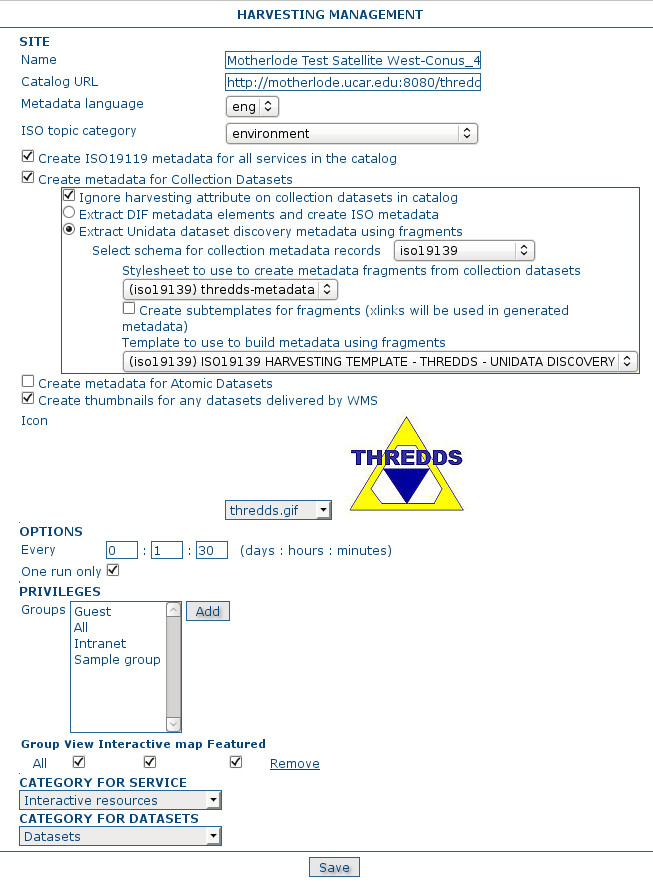
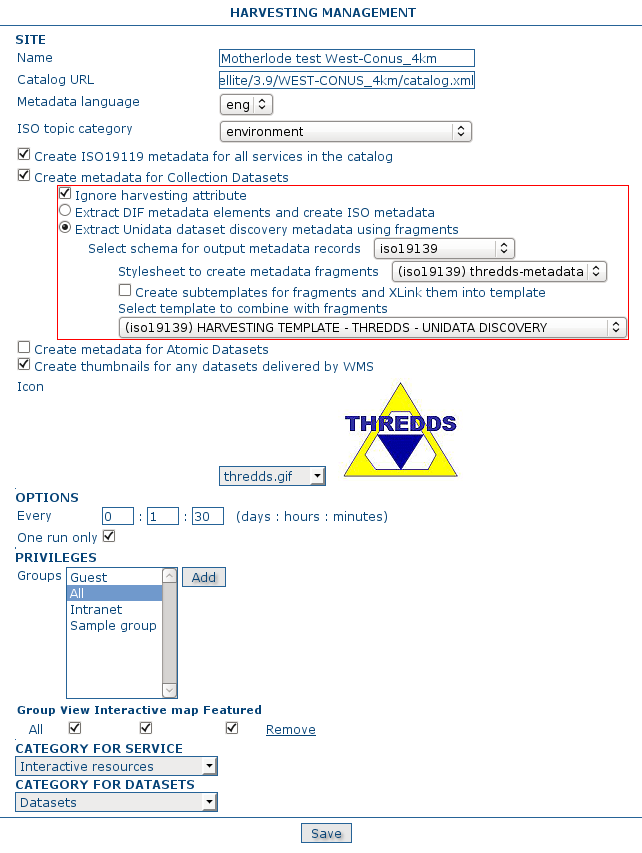
Final mods for changes in interface prompts plus small clarifications
git-svn-id: https://geonetwork.svn.sourceforge.net/svnroot/geonetwork/trunk@7278 ff403467-3f20-0410-99e5-ff581e626a08

diff --git a/docs/eng/users/source/admin/harvesting/index.rst b/docs/eng/users/source/admin/harvesting/index.rst
@@ -694,19 +694,21 @@ The available options are:
 
 	- *Name* - This is a short description of the node. It will be shown in the harvesting main page.
 	- *Catalog URL* - The remote URL of the THREDDS Catalog from which metadata will be harvested. This must be the xml version of the catalaog (i.e. ending with .xml).  The harvester will crawl through all datasets and services defined in this catalog creating metadata for them as specified by the options described further below.
-	- *Metadata language* - Use this option to specify the language of service metadata.
+	- *Metadata language* - Use this option to specify the language of the metadata to be harvested.
 	- *ISO topic category* - Use this option to specify the ISO topic category of service metadata.
-	- *Create service metadata* - Select this option to generate iso19119 metadata for services defined in the THREDDS catalog and for the catalog itself.
+	- *Create ISO19119 metadata for all services in catalog* - Select this option to generate iso19119 metadata for services defined in the THREDDS catalog (eg. OpenDAP, OGC WCS, ftp) and for the THREDDS catalog itself.
 	- *Create metadata for Collection datasets* -  Select this option to generate metadata for each collection dataset (THREDDS dataset containing other datasets).  Creation of metadata can be customised using options that are displayed when this option is selected as described further below.
 	- *Create metadata for Atomic datasets* - Select this option to generate metadata for each atomic dataset (THREDDS dataset not containing other datasets – for example cataloguing a netCDF dataset).  Creation of metadata can be customised using options that are displayed when this option is selected as described further below.
 
-		- *Ignore harvesting attribute* - Select this option to harvest metadata for selected datasets  regardless of the harvest attribute for the dataset in the THREDDS catalog.  If this option is not selected, metadata will only be created for datasets that have a harvest attribute set to true.
+		- *Ignore harvesting attribute* - Select this option to harvest metadata for selected datasets regardless of the harvest attribute for the dataset in the THREDDS catalog.  If this option is not selected, metadata will only be created for datasets that have a harvest attribute set to true.
 		- *Extract DIF metadata elements and create ISO metadata* - Select this option to generate ISO metadata for datasets in the THREDDS catalog that have DIF metadata elements.  When this option is selected a list of schemas is shown that have a DIFToISO.xsl stylesheet available (see for example INSTALL_DIR/web/geonetwork/xml/schemas/iso19139/convert/DIFToISO.xsl). Metadata is generated by reading the DIF metadata items in the THREDDS into a DIF format metadata record and then converting that DIF record to ISO using the DIFToISO stylesheet. 
-		- *Extract Unidata dataset discovery metadata using fragments* - Select this option when the metadata in your THREDDS or netCDF/ncml datasets follows Unidata dataset discovery conventions (see http://www.unidata.ucar.edu/software/netcdf-java/formats/DataDiscoveryAttConvention.html). You will need to write your own stylesheets and templates to extract this metadata. When this option is selected the following additional options will be shown: 
+		- *Extract Unidata dataset discovery metadata using fragments* - Select this option when the metadata in your THREDDS or netCDF/ncml datasets follows Unidata dataset discovery conventions (see http://www.unidata.ucar.edu/software/netcdf-java/formats/DataDiscoveryAttConvention.html). You will need to write your own stylesheets to extract this metadata as fragments and define a template to combine with the fragments. When this option is selected the following additional options will be shown: 
 
-			- Stylesheet - Select a stylesheet to use to convert metadata for the dataset (THREDDS metadata and netCDF ncml where applicable) into metadata fragments.
-			- Create subtemplates - Select this option to create a subtemplate (=metadata fragment stored in GeoNetwork catalog) for each metadata fragment generated.
-			- Template - Enter a template to be used to create complete metadata records from the metadata fragments generated for each dataset.  The generated metadata fragments are used to replace referenced elements in the templates with an xlink to a subtemplate if the *Create subtemplates* option is checked. If *Create subtemplates* is not checked, then the fragments are simply copied into the template metadata record.  
+			- *Select schema for output metadata records* - choose the ISO metadata schema or profile for the harvested metadata records.  Note: only the schemas that have THREDDS fragment stylesheets will be displayed in the list (see the next option for the location of these stylesheets). 
+			- *Stylesheet to create metadata fragments* - Select a stylesheet to use to convert metadata for the dataset (THREDDS metadata and netCDF ncml where applicable) into metadata fragments. These stylesheets can be found in the directory convert/ThreddsToFragments in the schema directory eg. for iso19139 this would be INSTALL_DIR/web/geonetwork/xml/schemas/iso19139/convert/ThreddsToFragments.
+			- *Create subtemplates for fragments and XLink them into template* - Select this option to create a subtemplate (=metadata fragment stored in GeoNetwork catalog) for each metadata fragment generated. 
+			- *Template to combine with fragments* - Select a template that will be filled in with the metadata fragments generated for each dataset.  The generated metadata fragments are used to replace referenced elements in the templates with an xlink to a subtemplate if the *Create subtemplates* option is checked. If *Create subtemplates* is not checked, then the fragments are simply copied into the template metadata record.  
+			- For Atomic Datasets , one additional option is provided *Harvest new or modified datasets only*. If this option is checked only datasets that have been modified or didn't exist when the harvester was last run will be harvested.
 
 	- *Create Thumbnails* - Select this option to create thumbnails for WMS layers in referenced WMS services
 	- *Icon* - An icon to assign to harvested metadata. The icon will be used when showing search results. 
@@ -733,7 +735,7 @@ THREDDS catalogs can include elements from the DIF metadata standard. The Unidat
 More about harvesting metadata fragments with the THREDDS Harvester
 ```````````````````````````````````````````````````````````````````
 
-The options described above for the *Extract Unidata dataset discovery metadata using fragments* (see http://www.unidata.ucar.edu/software/netcdf-java/formats/DataDiscoveryAttConvention.html for more details of these conventions) invoke the following process for each collection dataset or atomic dataset:
+The options described above for the *Extract Unidata dataset discovery metadata using fragments* (see http://www.unidata.ucar.edu/software/netcdf-java/formats/DataDiscoveryAttConvention.html for more details of these conventions) invoke the following process for each collection dataset or atomic dataset in the THREDDS catalog:
 
 #. The harvester bundles up the catalog URI, a generated uuid, the THREDDS metadata for the dataset (generated using the catalog subset web service) and the ncml for netCDF datasets into a single xml document. An example is shown below.
 #. This document is then transformed using the specified stylesheet (see *Stylesheet* option above) to obtain a metadata fragments document.
@@ -750,32 +752,36 @@ Two reference stylesheets are provided as examples of how to harvest metadata fr
 
 A sample template 'HARVESTING TEMPLATE – THREDDS – DATA DISCOVERY' has been provided for use with the stylesheets described above for the iso19139 metadata schema. This template is in the schema 'templates' directory eg. for ISO19139, this is INSTALL_DIR/web/geonetwork/xml/schemas/iso19139/templates/thredds-harvester-unidata-data-discovery.xml. *Before* attempting to run this example, you should make sure that this template and others from the iso19139 schema have been loaded into GeoNetwork using the 'Add templates' function in the Administration menu.
 
-We'll now give an example of how to set up a harvester and harvest THREDDS metadata from one of the public unidata motherlode catalogs at http://motherlode.ucar.edu:8080/thredds/catalog/satellite/3.9/WEST-CONUS_4km/catalog.xml.
+We'll now give an example of how to set up a harvester and harvest THREDDS metadata from one of the public unidata motherlode catalogs at http://motherlode.ucar.edu:8080/thredds/catalog/satellite/3.9/WEST-CONUS_4km/catalog.xml. If you were to paste this URL into your browser, you would see the XML representation of this THREDDS catalog. This is the document that is read and converted into metadata by the THREDDS harvester. A snippet of this catalog is shown below.
 
 .. figure:: web-harvesting-thredds-motherlode-catalogxml.png
 
-In GeoNetwork, go into the Administration menu, choose Harvesting Management as described earlier. Add a Thredds Catalog harvester. Fill out the harvesting management form as shown in the form below. 
+		*Example XML THREDDS catalog*
+
+In GeoNetwork, go into the Administration menu, choose Harvesting Management as described earlier. Add a THREDDS Catalog harvester. Fill out the harvesting management form as shown in the form below. 
 
 .. figure:: web-harvesting-thredds-motherlode-example.png
 
+		*THREDDS harvester form for motherlode THREDDS catalog example*
+
 The first thing to notice is that the *Service URL* should be http://motherlode.ucar.edu:8080/thredds/catalog/satellite/3.9/WEST-CONUS_4km/catalog.xml. Make sure that you use the xml version of the catalog. If you use an html version, you will not be able to harvest any metadata.
 
-Now because this unidata motherload Thredds catalog has lots of file level datasets (many thousands in fact), we will only harvest collection metadata. To do this you should check *Create metadata for Collection Datasets* and ignore the atomic datasets. 
+Now because this unidata motherload THREDDS catalog has lots of file level datasets (many thousands in fact), we will only harvest collection metadata. To do this you should check *Create metadata for Collection Datasets* and ignore the atomic datasets. 
 
 Next, because the metadata in this catalog follows Unidata data discovery conventions, so we will choose *Extract Unidata dataset discovery metadata using fragments*.
 
-Next, we will check *Ignore harvesting attribute on collection datasets in catalog*. We do this because datasets in the Thredds catalog can have an attribute indicating whether the dataset should be harvested or not. Since none of the datasets in this catalog have the harvesting attribute, we will ignore it. If we didn't check this box, all the datasets would be skipped.
+Next, we will check *Ignore harvesting attribute*. We do this because datasets in the THREDDS catalog can have an attribute indicating whether the dataset should be harvested or not. Since none of the datasets in this catalog have the harvesting attribute, we will ignore it. If we didn't check this box, all the datasets would be skipped.
 
-Next we will select the metadata schema that the harvested metadata will be written out in. We will choose *iso19139* here because this is the schema for which we have stylesheets that will convert Thredds metadata to fragments of iso19139 metadata and a template into which these fragments of metadata can be copied or linked. After choosing *iso19139*, choices will appear that show these stylesheets and templates. 
+Next we will select the metadata schema that the harvested metadata will be written out in. We will choose *iso19139* here because this is the schema for which we have stylesheets that will convert THREDDS metadata to fragments of iso19139 metadata and a template into which these fragments of metadata can be copied or linked. After choosing *iso19139*, choices will appear that show these stylesheets and templates. 
 
-The first choice is the stylesheet that will create iso19139 metadata fragments. Because we are interested in the thredds metadata elements in the Thredds catalog, we will choose the *(iso19139) thredds-metadata* (located in INSTALL_DIR/web/geonetwork/xml/schemas/iso19139/convert/ThreddsToFragments) to convert these elements to iso19139 metadata fragments.
+The first choice is the stylesheet that will create iso19139 metadata fragments. Because we are interested in the thredds metadata elements in the THREDDS catalog, we will choose the *(iso19139) thredds-metadata* (located in INSTALL_DIR/web/geonetwork/xml/schemas/iso19139/convert/ThreddsToFragments) to convert these elements to iso19139 metadata fragments.
 
 For the purposes of this demonstration, we will *not* check *Create subtemplates for fragments (xlinks...)*. This means that the fragments of metadata created by the stylesheet will be copied directly into the metadata template. They will not be able to be reused (eg. shared between different metadata records). See the earlier section on metadata fragments if you are not sure what this means.
 
-Finally, we will choose *HARVESTING TEMPLATE - THREDDS - UNIDATA DISCOVERY* as the template metadata record (this template will have been loaded into GeoNetwork from INSTALL_DIR/web/geonetwork/xml/schemas/iso19139/templates/thredds-harvester-unidata-data-discovery.xml through the Add Templates function in the Administration interface). The process by which the template is used to create metadata records is as follows: 
+Finally, we will choose *HARVESTING TEMPLATE - THREDDS - UNIDATA DISCOVERY* as the template metadata record that will be combined with the metadata fragments to create the output records. This template will have been loaded into GeoNetwork from INSTALL_DIR/web/geonetwork/xml/schemas/iso19139/templates/thredds-harvester-unidata-data-discovery.xml through the Add Templates function in the Administration interface. This template could be filled out with metadata common to all records before the harvester is run. The process by which the template is used to create metadata records is as follows: 
 
- #. For each dataset in the Thredds catalog, the template will be copied to create a new iso19139 metadata record
- #. Each fragment of metadata harvested from a Thredds dataset will be copied into the new iso19139 metadata record by matching an identifier in the template with an identifier in the fragment (this match is created by the developer of the template and the stylesheet).
+ #. For each dataset in the THREDDS catalog, the template will be copied to create a new iso19139 metadata record
+ #. Each fragment of metadata harvested from a THREDDS dataset will be copied into the new iso19139 metadata record by matching an identifier in the template with an identifier in the fragment (this match is created by the developer of the template and the stylesheet).
  #. The new record is then inserted into the GeoNetwork metadata catalog and the record content is indexed in Lucene for searching.
 
 You can then fill out the remainder of the form according to how often you want the harvested metadata to be updated, what categories will be assigned to the created metadata record, which icon will be displayed with the metadata records in the search results and what the privileges on the created metadata records will be.
@@ -784,11 +790,15 @@ Save the harvester screen. Then from the harvesting management screen, check the
 
 .. figure:: web-harvesting-thredds-motherlode-example-results.png
 
-Notice that there were 48 metadata records created for the 48 collection level datasets in this Thredds catalog. Each metadata record was formed by duplicating the metadata template and then copying 13 fragments of metadata into it - hence the total of 624 fragments harvested.
+		*Results of harvesting collection records from a motherlode THREDDS catalog*
+
+Notice that there were 48 metadata records created for the 48 collection level datasets in this THREDDS catalog. Each metadata record was formed by duplicating the metadata template and then copying 13 fragments of metadata into it - hence the total of 624 fragments harvested.
 
 An example of one of the collection level metadata records created by the harvester in this example and rendered by GeoNetwork is shown below.
 
 .. figure:: web-harvesting-thredds-outputisometadata.png
+
+		*ISO Metadata record harvested from a motherlode THREDDS catalog*
 
 Adding Z3950 Server(s) 
 ``````````````````````
